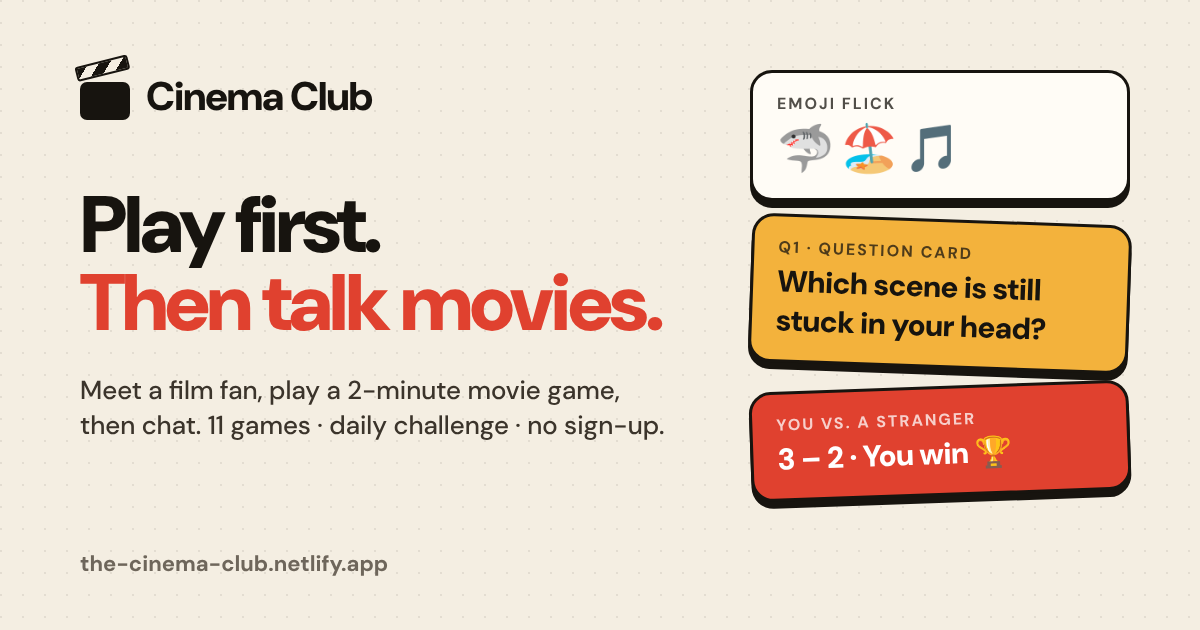
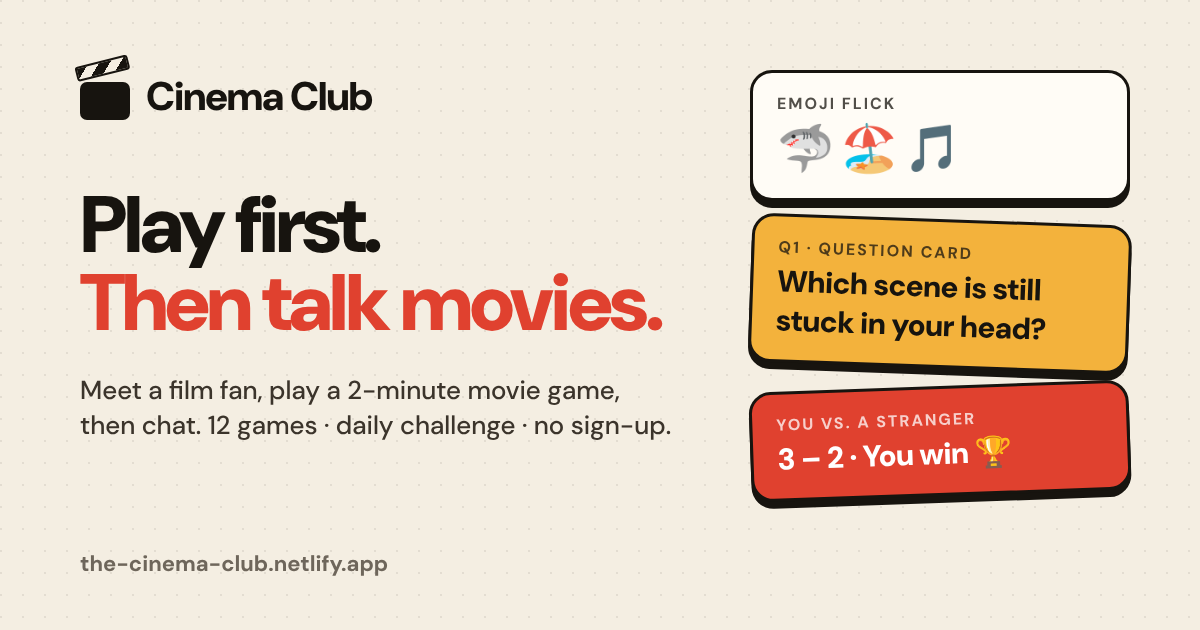
Tab title 'Cinema Club', simpler main buttons, game #12: Odd One Out
- Odd One Out: four posters, three share an actor — tap the one that doesn't (also in the daily rotation)
- Main buttons without subtitles; preview image + descriptions say 12 games

Claude-Session: https://claude.ai/code/session_01GkLwvFcPWTuZMTr7T4E8W3

Changed region(s): [[0.185, 0.6635, 0.555, 0.6937]]

diff --git a/js/games.js b/js/games.js
@@ -14,6 +14,7 @@ export const GAMES = {
   director: { name: "Director's Cut", icon: '🎬', desc: 'Who directed it? Four names, one is right.', tmdb: true },
   whoswho: { name: "Who's Who", icon: '🪪', desc: 'Name the film from its characters.', tmdb: true },
   timeline: { name: 'Timeline', icon: '🕰', desc: 'Put four films in release order. One shot.', tmdb: true },
+  oddone: { name: 'Odd One Out', icon: '🧩', desc: 'Three films share an actor. Spot the one that doesn’t.', images: false },
 };
 export const GAME_IDS = Object.keys(GAMES);
 
@@ -187,6 +188,33 @@ export async function makeRound(game, ctx) {
       answer: order,
       reveal: { years: picked.map((m) => m.year), line: order.map((i) => `${picked[i].title} (${picked[i].year})`).join(' → ') } };
   }
+  if (game === 'oddone') {
+    for (let tries = 0; tries < 8; tries++) {
+      const f = takeFilm(ctx, (m) => m.poster);
+      if (!f) break;
+      let d; try { d = await getDetails(f.id); } catch (e) { continue; }
+      for (const actor of d.cast.slice(0, 3)) {
+        let theirs = [];
+        try { theirs = (await personMovies(actor.id)).filter((m) => m.poster && m.id !== f.id); } catch (e) { continue; }
+        if (theirs.length < 2) continue;
+        const two = shuffle(theirs.slice(0, 10), RNG).slice(0, 2);
+        const theirIds = new Set([f.id, ...theirs.map((m) => m.id)]);
+        // the odd one: a film from the pool this actor is not in
+        let odd = null;
+        for (const m of shuffle(ctx.pool.filter((x) => x.poster && !theirIds.has(x.id)), RNG).slice(0, 5)) {
+          try { const dd = await getDetails(m.id); if (!dd.cast.some((c) => c.id === actor.id)) { odd = m; break; } } catch (e) { /* try next */ }
+        }
+        if (!odd) continue;
+        ctx.used.add(odd.id);
+        const films = shuffle([f, ...two, odd], RNG);
+        return { kind: 'quad', duration: 14000,
+          data: { prompt: `Which film does NOT star ${actor.name}?`, films: films.map((m) => ({ title: m.title, year: m.year, poster: m.poster })) },
+          answer: films.indexOf(odd),
+          reveal: { title: `${odd.title} is the odd one out — no ${actor.name}`, year: null } };
+      }
+    }
+    throw new Error('Could not build an Odd One Out round');
+  }
   if (game === 'year') {
     const f = takeFilm(ctx, (m) => m.year);
     return { kind: 'year', duration: 15000, data: { title: f.title, poster: f.poster, prompt: 'What year did it come out?' },
@@ -254,7 +282,7 @@ export class Bot {
       }
       const slow = data.media && ['blur', 'zoom', 'cast', 'chars', 'plot'].includes(data.media.type) ? 3500 : 0;
       const t = 2200 + slow + Math.random() * 7000;
-      const count = kind === 'pair' ? 2 : data.options.length;
+      const count = data.films ? data.films.length : data.options.length;
       const correct = Math.random() < this.skill;
       let v = sec.answer;
       if (!correct) { do { v = Math.floor(Math.random() * count); } while (v === sec.answer && count > 1); }

diff --git a/js/app.js b/js/app.js
@@ -198,7 +198,7 @@ function pChip(p, score) {
 
 // ---------- daily challenge ----------
 const DAILY_EPOCH = Date.UTC(2026, 10, 25); // daily #1
-const DAILY_GAMES = ['emoji', 'plot', 'whoswho', 'director', 'timeline', 'cast', 'higherlower', 'blur'];
+const DAILY_GAMES = ['emoji', 'plot', 'whoswho', 'director', 'timeline', 'cast', 'higherlower', 'blur', 'oddone'];
 const dayKey = (d = new Date()) => d.toISOString().slice(0, 10);
 function loadDaily() {
   try { const v = localStorage.getItem('cinemaclub:daily'); const st = v ? JSON.parse(v) : null; if (st && st.results) return st; } catch (e) { /* private mode */ }
@@ -304,8 +304,8 @@ ${nameBlockHtml()}
       <h1>Play first.<br><span class="hl">Then talk movies.</span></h1>
       <p class="lede">Meet a film fan, play a two-minute movie game, then talk films. Just finished something? Find someone who watched it too.</p>
       <div class="cta">
-        <button class="btn primary big" data-act="match">🎟 Random match <small>game, then chat</small></button>
-        <button class="btn ink big" data-act="filmpick">💬 Talk about a film <small>same film, spoilers OK</small></button>
+        <button class="btn primary big" data-act="match">🎟 Random match</button>
+        <button class="btn ink big" data-act="filmpick">💬 Talk about a film</button>
         <div class="row three">
           <button class="btn small-btn" data-act="solo">🍿 Solo</button>
           <button class="btn small-btn" data-act="create">Create room</button>
@@ -476,6 +476,12 @@ ${nameBlockHtml()}
           <span class="pt">${esc(f.title)}${d.showYear && d.years[i] ? ` <em>(${d.years[i]})</em>` : ''}</span>
           <span class="pv" data-pv="${i}"></span>
         </button>`).join('<span class="or">or</span>')}</div>`;
+    } else if (r.kind === 'quad') {
+      media = `<div class="quad">${d.films.map((f, i) => `
+        <button class="pcard" data-act="answer" data-v="${i}">
+          ${f.poster ? `<img src="${esc(f.poster)}" alt="">` : '<div class="noimg">🎬</div>'}
+          <span class="pt">${esc(f.title)}${f.year ? ` <em>(${f.year})</em>` : ''}</span>
+        </button>`).join('')}</div>`;
     } else if (r.kind === 'order') {
       media = `<div class="order">${d.films.map((f, i) => `
         <button class="ocard" data-act="orderpick" data-i="${i}">
@@ -786,6 +792,7 @@ function showResult() {
       const y = $(`[data-oy="${i}"]`); if (y) y.textContent = res.reveal.years[i];
       if (Array.isArray(S.myAnswer)) c.classList.add(S.myAnswer[pos] === i ? 'good' : 'bad'); });
   }
+  if (r.kind === 'quad') $$('.pcard').forEach((b) => { b.disabled = true; if (+b.dataset.v === res.answer) b.classList.add('correct'); });
   if (r.kind === 'pair') {
     $$('.pcard').forEach((b) => { b.disabled = true; if (+b.dataset.v === res.answer) b.classList.add('correct'); });
     res.reveal.values.forEach((v, i) => { const el = $(`[data-pv="${i}"]`); if (el) el.textContent = v; });

diff --git a/index.html b/index.html
@@ -3,13 +3,13 @@
 <head>
   <meta charset="utf-8" />
   <meta name="viewport" content="width=device-width, initial-scale=1, viewport-fit=cover, interactive-widget=resizes-content" />
-  <title>Cinema Club — Play a movie game, then talk films</title>
-  <meta name="description" content="Meet a film fan, play a 2-minute movie game, then talk films. 11 games, a daily challenge, no sign-up." />
+  <title>Cinema Club</title>
+  <meta name="description" content="Meet a film fan, play a 2-minute movie game, then talk films. 12 games, a daily challenge, no sign-up." />
   <link rel="canonical" href="https://the-cinema-club.netlify.app/" />
   <meta property="og:type" content="website" />
   <meta property="og:site_name" content="Cinema Club" />
   <meta property="og:title" content="Cinema Club — Play first. Then talk movies." />
-  <meta property="og:description" content="Meet a film fan, play a 2-minute movie game, then talk films. 11 games, a daily challenge, no sign-up." />
+  <meta property="og:description" content="Meet a film fan, play a 2-minute movie game, then talk films. 12 games, a daily challenge, no sign-up." />
   <meta property="og:url" content="https://the-cinema-club.netlify.app/" />
   <meta property="og:image" content="https://the-cinema-club.netlify.app/assets/og.png" />
   <meta property="og:image:width" content="1200" />

diff --git a/css/style.css b/css/style.css
@@ -679,3 +679,10 @@ html[data-bg="10"] #bgfx { background-color: #E0412F;
 #wallpick::-webkit-scrollbar { display: none; }
 #wallpick button, #wallpick span { flex: none; white-space: nowrap; }
 @media (max-width: 959px) { #wallpick { bottom: 10px; top: auto; } }
+
+/* Odd One Out: four poster cards */
+.quad { display: grid; grid-template-columns: 1fr 1fr; gap: 10px; }
+.quad .pcard { padding: 6px; gap: 6px; }
+.quad .pcard img, .quad .pcard .noimg { aspect-ratio: 3 / 4; object-position: center 25%; }
+.quad .pcard .pt { font-size: 13px; }
+@media (min-width: 600px) { .quad .pcard img { aspect-ratio: 2 / 3; } }

diff --git a/sw.js b/sw.js
@@ -1,6 +1,6 @@
 // Cinema Club service worker: network-first for the site's own files, so updates show up right away,
 // with the last good copy as an offline fallback. Movie data, matchmaking and chat always go to the network.
-const CACHE = 'cinemaclub-v7';
+const CACHE = 'cinemaclub-v8';
 const SHELL = ['/', '/index.html', '/css/style.css', '/css/fonts.css', '/js/app.js', '/js/config.js', '/js/content.js', '/js/demo-data.js',
   '/js/filter.js', '/js/games.js', '/js/movies.js', '/js/net.js', '/js/sound.js', '/js/backdrops.js', '/assets/icon-192.png', '/assets/tmdb-logo.svg'];
 

diff --git a/README.md b/README.md
@@ -45,6 +45,7 @@ Tap your name on the home page to choose your emoji and both words yourself, or 
 | 🎬 Director's Cut | Who directed it? Four names, one is right |
 | 🪪 Who's Who | Name the film from its character names |
 | 🕰 Timeline | Put four films in release order — one shot |
+| 🧩 Odd One Out | Three of four films share an actor — tap the one that doesn't |
 
 Matches are first to 3 rounds (max 7). Actor Chain is a single sudden-death duel.
 
